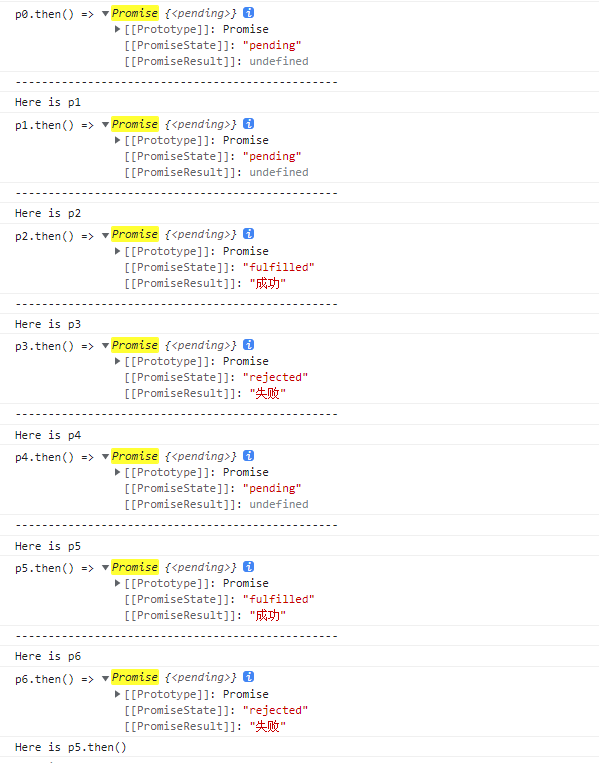
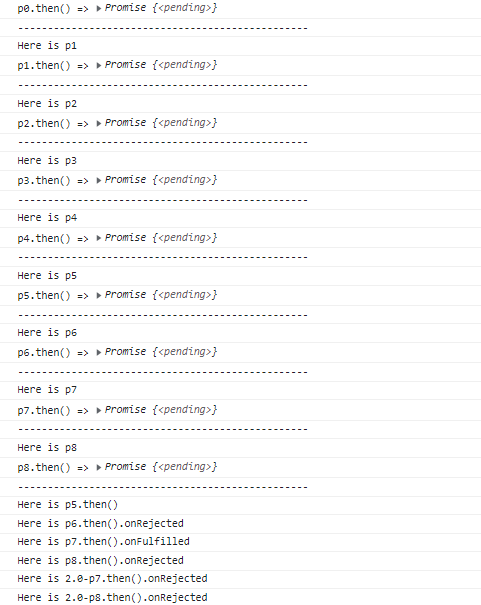
FEAT: update promise

Changed region(s): [[0.0312, 0.5355, 0.5613, 1.0], [0.0312, 0.238, 0.5301, 0.5355], [0.0312, 0.0, 0.5301, 0.238]]

diff --git a/docs/blog/es6/promise.md b/docs/blog/es6/promise.md
@@ -114,10 +114,62 @@ const p6 = new Promise((resolve, reject) => {
   console.log("Here is p6");
   reject("失败");
 });
-p6.then(() => {
-  console.log("Here is p6.then()");
-});
+p6.then(
+  () => {
+    console.log("Here is p6.then().onFulfilled");
+  },
+  () => {
+    console.log("Here is p6.then().onRejected");
+  }
+);
 console.log("p6.then() =>", p6.then());
+console.log("-------------------------------------------------");
+
+const p7 = new Promise((resolve, reject) => {
+  console.log("Here is p7");
+  resolve("成功");
+});
+p7.then(
+  () => {
+    console.log("Here is p7.then().onFulfilled");
+    throw "error";
+  },
+  () => {
+    console.log("Here is p7.then().onRejected");
+  }
+).then(
+  () => {
+    console.log("Here is 2.0-p7.then().onFulfilled");
+  },
+  () => {
+    console.log("Here is 2.0-p7.then().onRejected");
+  }
+);
+console.log("p7.then() =>", p7.then());
+console.log("-------------------------------------------------");
+
+const p8 = new Promise((resolve, reject) => {
+  console.log("Here is p8");
+  reject("失败");
+});
+p8.then(
+  () => {
+    console.log("Here is p8.then().onFulfilled");
+  },
+  () => {
+    console.log("Here is p8.then().onRejected");
+    throw "error";
+  }
+).then(
+  () => {
+    console.log("Here is 2.0-p8.then().onFulfilled");
+  },
+  () => {
+    console.log("Here is 2.0-p8.then().onRejected");
+  }
+);
+console.log("p8.then() =>", p8.then());
+console.log("-------------------------------------------------");
 ```
 
 <details><summary><b>点击查看结果</b></summary>
@@ -129,6 +181,6 @@ console.log("p6.then() =>", p6.then());
 可以得出：
 
 - 不管是否执行`resolve`和`reject`，都能打印出`promise.then()`，返回该`promise`本身
-- 只有`promise`状态为`fulfilled`，才会进人回调函数`promise.then()`, 执行里面的内容
-- `promise.then()`就是一个回调函数，用户可以自定义函数内容，当`promise`状态为`fulfilled`时执行
-- 因为`promise.then()`返回的也是一个`promise`对象，所以可以添加多个`then()`链试调用，并按添加顺序执行
+- 因为`promise.then()`返回的也是一个`promise`对象，所以可以添加多个`then()`链试调用，他们按添加顺序执行
+- `promise.then()`就是一个回调函数，用户可以自定义函数内容, 它可以传入两个参数，分别指定`resolved`状态和`rejected`状态的回调函数，即让它成功之后做什么失败之后做什么
+- `pending`状态下的`promise`不会执行回调函数`then()`，只有变为`resolved`和`reject`状态之后，通过`then()` 添加的回调函数才会被调用
